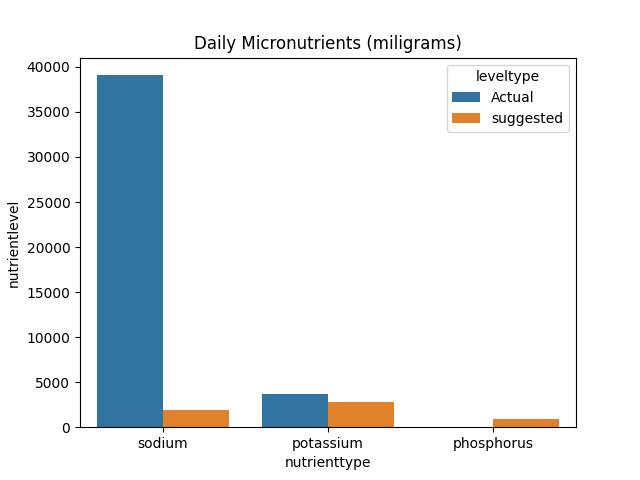
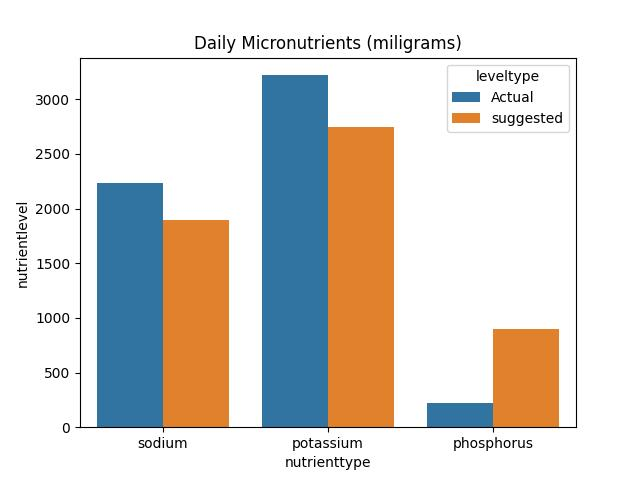
fixed graphs

diff --git a/kidney_app/views.py b/kidney_app/views.py
@@ -425,9 +425,12 @@ def showGraph(date):
 
     cur.execute(f'''SELECT 'potassium' AS nutrienttype, SUM(n.potassium) AS nutrientlevel, n.leveltype
     FROM kidney_app_nutrient as n 
-    INNER JOIN kidney_app_food as f ON f.id = n.id
-    INNER JOIN kidney_app_journal_entry as je ON je.id = n.id
-    WHERE date = '{date}' GROUP BY je.date, n.leveltype''')
+	INNER JOIN kidney_app_nutrient_food as nf on n.id = nf.nutrient_id
+    INNER JOIN kidney_app_food as f ON nf.food_id = f.id
+	INNER JOIN kidney_app_food_journal_entry as fje ON f.id = fje.food_id
+    INNER JOIN kidney_app_journal_entry as je ON je.id = fje.journal_entry_id
+    WHERE date = '{date}' 
+	GROUP BY je.date, n.leveltype''')
     data = cur.fetchall()
 
     cols = []
@@ -445,9 +448,12 @@ def showGraph(date):
 
     cur.execute(f'''SELECT 'phosphorus' AS nutrienttype, SUM(n.phosphorus) AS nutrientlevel, n.leveltype
     FROM kidney_app_nutrient as n 
-    INNER JOIN kidney_app_food as f ON f.id = n.id
-    INNER JOIN kidney_app_journal_entry as je ON je.id = n.id
-    WHERE date = '{date}' GROUP BY je.date, n.leveltype''')
+	INNER JOIN kidney_app_nutrient_food as nf on n.id = nf.nutrient_id
+    INNER JOIN kidney_app_food as f ON nf.food_id = f.id
+	INNER JOIN kidney_app_food_journal_entry as fje ON f.id = fje.food_id
+    INNER JOIN kidney_app_journal_entry as je ON je.id = fje.journal_entry_id
+    WHERE date = '{date}' 
+    GROUP BY je.date, n.leveltype''')
     data = cur.fetchall()
 
     cols = []
@@ -465,8 +471,10 @@ def showGraph(date):
 
     cur.execute(f'''SELECT 'protein' AS nutrienttype, SUM(n.protein) AS nutrientlevel, n.leveltype
     FROM kidney_app_nutrient as n 
-    INNER JOIN kidney_app_food as f ON f.id = n.id
-    INNER JOIN kidney_app_journal_entry as je ON je.id = n.id
+	INNER JOIN kidney_app_nutrient_food as nf on n.id = nf.nutrient_id
+    INNER JOIN kidney_app_food as f ON nf.food_id = f.id
+	INNER JOIN kidney_app_food_journal_entry as fje ON f.id = fje.food_id
+    INNER JOIN kidney_app_journal_entry as je ON je.id = fje.journal_entry_id
     WHERE date = '{date}'
     GROUP BY je.date, n.leveltype''')
     data = cur.fetchall()
@@ -486,8 +494,10 @@ def showGraph(date):
 
     cur.execute(f'''SELECT 'water' AS nutrienttype, SUM(n.water) AS nutrientlevel, n.leveltype
     FROM kidney_app_nutrient as n 
-    INNER JOIN kidney_app_food as f ON f.id = n.id
-    INNER JOIN kidney_app_journal_entry as je ON je.id = n.id
+	INNER JOIN kidney_app_nutrient_food as nf on n.id = nf.nutrient_id
+    INNER JOIN kidney_app_food as f ON nf.food_id = f.id
+	INNER JOIN kidney_app_food_journal_entry as fje ON f.id = fje.food_id
+    INNER JOIN kidney_app_journal_entry as je ON je.id = fje.journal_entry_id
     WHERE date = '{date}'
     GROUP BY je.date, n.leveltype''')
     data = cur.fetchall()

diff --git a/intex/settings.py b/intex/settings.py
@@ -80,9 +80,8 @@ DATABASES = {
         'ENGINE': 'django.db.backends.postgresql',
         'NAME': 'intex',
         'USER': 'postgres',
-        'PASSWORD': 'Vespucio',
+        'PASSWORD': 'admin',
         'HOST': 'localhost',
-        'PORT': 5434
     }
 }
 
